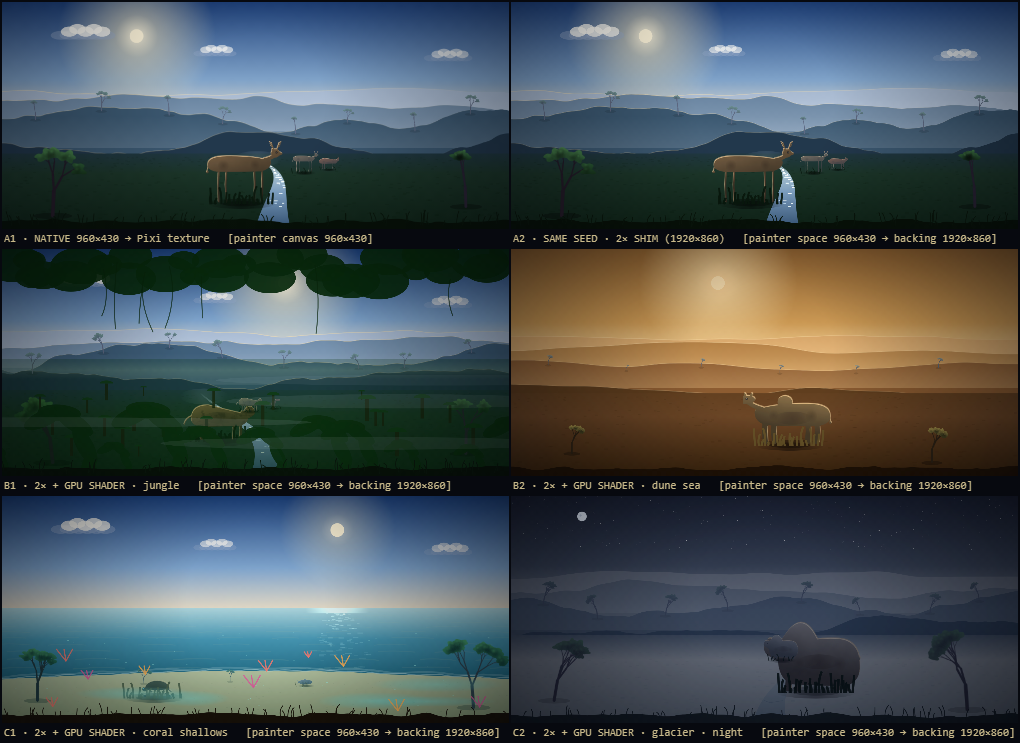
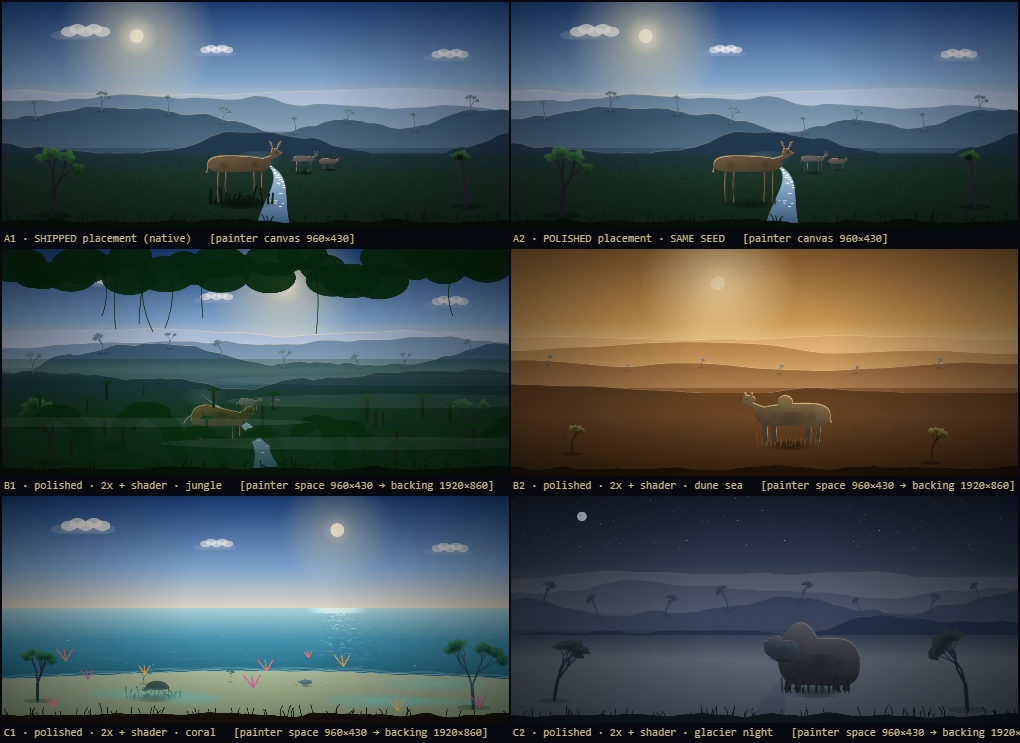
port/spike: placement polish A/B — the "weird shading" diagnosed and tuned
Dakk flagged weird shading around the animals in the pipeline proof. DIAGNOSIS
BY CONTROLLED DIFF, not guesswork: rendered the same seed with and without
creatures and amplified the abs-diff. The beast pass adds exactly three things —
creature, contact shadow, occlusion tufts. No rectangle, no glow artifact. The
"weird shading" is the SHIPPED placement pass itself at proof scale: near-black
tufts at alpha 0.92 scribbled over the legs, a wide 0.46-alpha shadow pool, and
for the far pair the vista's own river-source mist they happen to stand in.

FIX: a tuned placement pass, SPIKE-ONLY, hot-swapped per cell so the proof sheet
is its own A/B — A1 shipped vs A2 polished, same seed, same genes:
  tufts   0.92 near-black blunt  ->  ~0.58 green-tinted, 30% fewer, thinner,
                                      TAPERED (second fading pass over the tips)
  shadow  0.46 alpha, 0.38w      ->  0.30 alpha, 0.33w, softer mid-stop
  beast art, camo, haze: untouched
First polish pass overcorrected — blades nearly vanished and the deer risked
reading pasted-on again (the exact failure the occlusion pass exists to prevent);
nudged presence back up. placement-ab-zoom.png is the close-up receipt.

⚠ main.js NOT touched. If Dakk approves the A/B this becomes a recorded port
delta — and optionally a live-build fix, HIS call, since it changes shipped art.
Also caught in my own harness: the polish cells initially varied the gene-seed
[…]

diff --git a/port/spike/pipeline.html b/port/spike/pipeline.html
@@ -5197,6 +5197,54 @@ function _vistaSalt(){
   const ABC=['#6fd3ff','#ff9fe0','#7fe6a0','#ffd96a','#d6a0ff','#ff8a72'];
   window.battleStats=(x)=>({ab:{col:ABC[(x.trait||0)%ABC.length]}, vit:150, tier:0});
 
+  /* ── SPIKE-ONLY PLACEMENT POLISH (Dakk: 'weird shading around the animal') ──
+     The shipped pass draws near-black occlusion tufts at alpha 0.92 plus a wide
+     0.46-alpha shadow pool; against 2x-crisp terrain they read as a smudge.
+     This variant: tufts fewer/thinner/taller-tapered at ~half alpha with a
+     green-tinted color, shadow pool tightened and softened. HOT-SWAPPED per
+     cell so A1/A2 are an honest shipped-vs-polished A/B on the same seed.
+     main.js is NOT touched; if Dakk approves, this becomes a recorded port
+     delta, not a silent change. */
+  const _placeShipped=_hdPlaceBeast;
+  const _placePolished=function(g,bcv,x,groundY,scale,flip,hazeAmt,warm,tuft,hazeCol){
+    const S=bcv.width,w=S*scale,h=S*scale;
+    const work=document.createElement('canvas');work.width=work.height=S;
+    const wg=work.getContext('2d');
+    wg.drawImage(bcv,0,0);
+    wg.globalCompositeOperation='source-atop';
+    if(warm>0){wg.fillStyle='rgba(255,218,168,'+warm+')';wg.fillRect(0,0,S,S);}
+    if(hazeAmt>0){wg.fillStyle='rgba('+(hazeCol||'127,162,196')+','+hazeAmt+')';wg.fillRect(0,0,S,S);}
+    /* tighter, softer contact shadow: pool 0.46->0.30 and 12% narrower */
+    const shA=0.30*(1-hazeAmt*0.65);
+    const rx=Math.max(6,w*0.33);
+    const sgd2=g.createRadialGradient(x,groundY+2,1,x,groundY+2,rx);
+    sgd2.addColorStop(0,'rgba(0,0,0,'+shA.toFixed(3)+')');sgd2.addColorStop(0.55,'rgba(0,0,0,'+(shA*0.45).toFixed(3)+')');sgd2.addColorStop(1,'rgba(0,0,0,0)');
+    g.fillStyle=sgd2;g.beginPath();g.ellipse(x,groundY+2,rx,Math.max(2,h*0.05),0,0,7);g.fill();
+    g.fillStyle='rgba(0,0,0,'+(shA*0.55).toFixed(3)+')';
+    g.beginPath();g.ellipse(x,groundY+2,w*0.19,h*0.026,0,0,7);g.fill();
+    g.save();g.translate(x,groundY-bcv._feetY*h);
+    if(flip)g.scale(-1,1);
+    g.drawImage(work,-w/2,0,w,h);g.restore();
+    /* occlusion tufts: 30% fewer, thinner, ~half alpha, green-tinted, and
+       TAPERED — a second thinner pass over the top half so blades fade out
+       instead of ending as blunt dark bars */
+    const nT=Math.max(3,(8*scale*4)|0);
+    const tuftCol=(tuft||'22,44,26');
+    for(let tf=0;tf<nT;tf++){
+      const gx=x+(tf/nT-0.5)*w*0.66+(_hdHash(tf,x|0,7)-0.5)*8;
+      const tall=(tf%4===0);
+      const gh=(4+_hdHash(tf,3,9)*7)*scale*3.2*(tall?1.7:1);
+      const midx=gx+(_hdHash(tf,5,3)-0.5)*6, midy=groundY+3-gh*0.6;
+      const tipx=gx+(_hdHash(tf,8,5)-0.5)*10, tipy=groundY+3-gh;
+      g.strokeStyle='rgba('+tuftCol+','+(0.58-hazeAmt*0.35).toFixed(3)+')';
+      g.lineWidth=Math.max(1,1.25*scale*4);
+      g.beginPath();g.moveTo(gx,groundY+3);g.quadraticCurveTo(midx,midy,tipx,tipy);g.stroke();
+      g.strokeStyle='rgba('+tuftCol+','+(0.26-hazeAmt*0.15).toFixed(3)+')';
+      g.lineWidth=Math.max(0.6,0.6*scale*4);
+      g.beginPath();g.moveTo(midx,midy);g.quadraticCurveTo((midx+tipx)/2,(midy+tipy)/2,tipx,tipy);g.stroke();
+    }
+  };
+
   let sd=5000;
   const mk=(nm)=>{ const gg={seed:sd++, kingdom:'fauna', color:(sd*3)%17, accent:(sd*5)%17,
     form:sd%18, body:(sd*5)%16, loco:sd%13, trait:(sd*7)%25, size:2, head:sd%10,
@@ -5240,18 +5288,18 @@ function _vistaSalt(){
      top-left quarter of the painting — big sun, cropped deer). Deleting the
      instance properties re-exposes the prototype accessors and the true
      1920×860 backing size. */
-  const paint=(opts, scaled)=>{ shimOn=!!scaled; const cv=hdVista(opts); shimOn=false;
+  const paint=(opts, scaled, polish)=>{ _hdPlaceBeast = polish ? _placePolished : _placeShipped; shimOn=!!scaled; const cv=hdVista(opts); shimOn=false; _hdPlaceBeast=_placeShipped;
     if(scaled){ delete cv.width; delete cv.height; } return cv; };
 
   /* ── the cells: same seeds native vs 2×, then 2×+shader across biomes ── */
   const CW=507, CH=227, PAD=2, CAP=18;
   const cells=[
-    { t:'A1 · NATIVE 960×430 → Pixi texture', o:{seed:1000, pal:'day', wb:'temperate', biome:'land', flora:true, water:'liquid', moons:1, era:'none', genes:['Red Deer','Fox'].map(mk), herd:2}, scaled:false, shader:false },
-    { t:'A2 · SAME SEED · 2× SHIM (1920×860)', o:{seed:1000, pal:'day', wb:'temperate', biome:'land', flora:true, water:'liquid', moons:1, era:'none', genes:['Red Deer','Fox'].map(mk), herd:2}, scaled:true, shader:false },
-    { t:'B1 · 2× + GPU SHADER · jungle', o:{seed:1097, pal:'day', wb:'jungle', biome:'land', flora:true, water:'liquid', moons:1, era:'none', genes:['Jaguar','Toucan'].map(mk), herd:2}, scaled:true, shader:true },
-    { t:'B2 · 2× + GPU SHADER · dune sea', o:{seed:1291, pal:'sand', wb:'dunesea', biome:'land', flora:true, water:'none', moons:1, era:'none', genes:['Camel'].map(mk), herd:1}, scaled:true, shader:true },
-    { t:'C1 · 2× + GPU SHADER · coral shallows', o:{seed:1388, pal:'day', wb:'coral', biome:'island', flora:true, water:'liquid', moons:1, era:'none', genes:['Sea Turtle','Clownfish'].map(mk), herd:2}, scaled:true, shader:true },
-    { t:'C2 · 2× + GPU SHADER · glacier · night', o:{seed:1485, pal:'snow', wb:'glacier', biome:'land', flora:true, water:'frozen', moons:1, era:'none', nightize:true, genes:['Polar Bear'].map(mk), herd:1}, scaled:true, shader:true },
+    { t:'A1 · SHIPPED placement (native)', o:{seed:1000, pal:'day', wb:'temperate', biome:'land', flora:true, water:'liquid', moons:1, era:'none', genes:['Red Deer','Fox'].map(mk), herd:2}, scaled:false, shader:false, polish:false },
+    { t:'A2 · POLISHED placement · SAME SEED', o:{seed:1000, pal:'day', wb:'temperate', biome:'land', flora:true, water:'liquid', moons:1, era:'none', genes:['Red Deer','Fox'].map(mk), herd:2}, scaled:false, shader:false, polish:true },
+    { t:'B1 · polished · 2x + shader · jungle', o:{seed:1097, pal:'day', wb:'jungle', biome:'land', flora:true, water:'liquid', moons:1, era:'none', genes:['Jaguar','Toucan'].map(mk), herd:2}, scaled:true, shader:true, polish:true },
+    { t:'B2 · polished · 2x + shader · dune sea', o:{seed:1291, pal:'sand', wb:'dunesea', biome:'land', flora:true, water:'none', moons:1, era:'none', genes:['Camel'].map(mk), herd:1}, scaled:true, shader:true, polish:true },
+    { t:'C1 · polished · 2x + shader · coral', o:{seed:1388, pal:'day', wb:'coral', biome:'island', flora:true, water:'liquid', moons:1, era:'none', genes:['Sea Turtle','Clownfish'].map(mk), herd:2}, scaled:true, shader:true, polish:true },
+    { t:'C2 · polished · 2x + shader · glacier night', o:{seed:1485, pal:'snow', wb:'glacier', biome:'land', flora:true, water:'frozen', moons:1, era:'none', nightize:true, genes:['Polar Bear'].map(mk), herd:1}, scaled:true, shader:true, polish:true },
   ];
 
   const { Application, Container, Sprite, Texture, Filter, GlProgram, ColorMatrixFilter, Text } = PIXI;
@@ -5294,7 +5342,7 @@ function _vistaSalt(){
   cells.forEach((c,idx)=>{
     const col=idx%2, row=(idx/2)|0;
     const x=PAD+col*(CW+PAD), y=PAD+row*(CH+CAP+PAD);
-    let cv; try{ cv=paint(c.o, c.scaled); }catch(e){
+    let cv; try{ sd=5000; cv=paint(c.o, c.scaled, c.polish); }catch(e){
       const t=new Text({ text:'ERR '+e.message, style:{ fill:0xff6666, fontSize:12 }}); t.x=x+8; t.y=y+8; app.stage.addChild(t); return; }
     const spr=new Sprite(Texture.from(cv));
     spr.x=x; spr.y=y; spr.width=CW; spr.height=CH;

diff --git a/port/spike/README.md b/port/spike/README.md
@@ -237,3 +237,27 @@ The full sweep this pipeline scales to: `hdVista`'s scene painters, `speciesPort
 each lifted, DPR-parameterised, rendered into Pixi textures/render-targets, with the GLSL
 grade layer per scene. That is Phases 3–6 of the plan, and it now has a proven mechanism
 instead of a hope. Nothing gets hand-redrawn.
+
+---
+
+# ATTEMPT 4 — placement polish (Dakk: "weird shading around the animal")
+
+**Diagnosis first, by controlled diff** (same seed, with vs without creatures, abs-diff ×4):
+the beast pass adds exactly three things — the creature, its contact shadow, and the
+occlusion tufts. No rectangle, no glow bug. What reads as "weird shading" is the shipped
+pass itself at proof scale: **near-black occlusion tufts at alpha 0.92** scribbled over the
+legs, a **wide 0.46-alpha shadow pool**, and (for the far pair) the vista's own river-source
+mist behind them.
+
+**The fix is a TUNED PLACEMENT PASS, spike-only, hot-swapped per cell** so the proof sheet
+itself is the A/B: same seed, same genes, shipped vs polished (`placement-ab-zoom.png`).
+
+| | shipped | polished |
+|---|---|---|
+| tufts | alpha 0.92, near-black `9,24,13`, blunt ends | alpha ~0.58, green-tinted `22,44,26`, 30% fewer, thinner, **tapered** (second fading pass over the tip half) |
+| shadow pool | 0.46 alpha, 0.38·w radius | 0.30 alpha, 0.33·w radius, softer mid-stop |
+| beast art, camo, haze | untouched | untouched |
+
+**`main.js` is NOT touched.** If Dakk approves the A/B, this becomes a recorded port delta
+(and optionally a live-build fix — his call, since it changes shipped art). The river-source
+mist is scene composition, not an artifact — noted, not "fixed".
